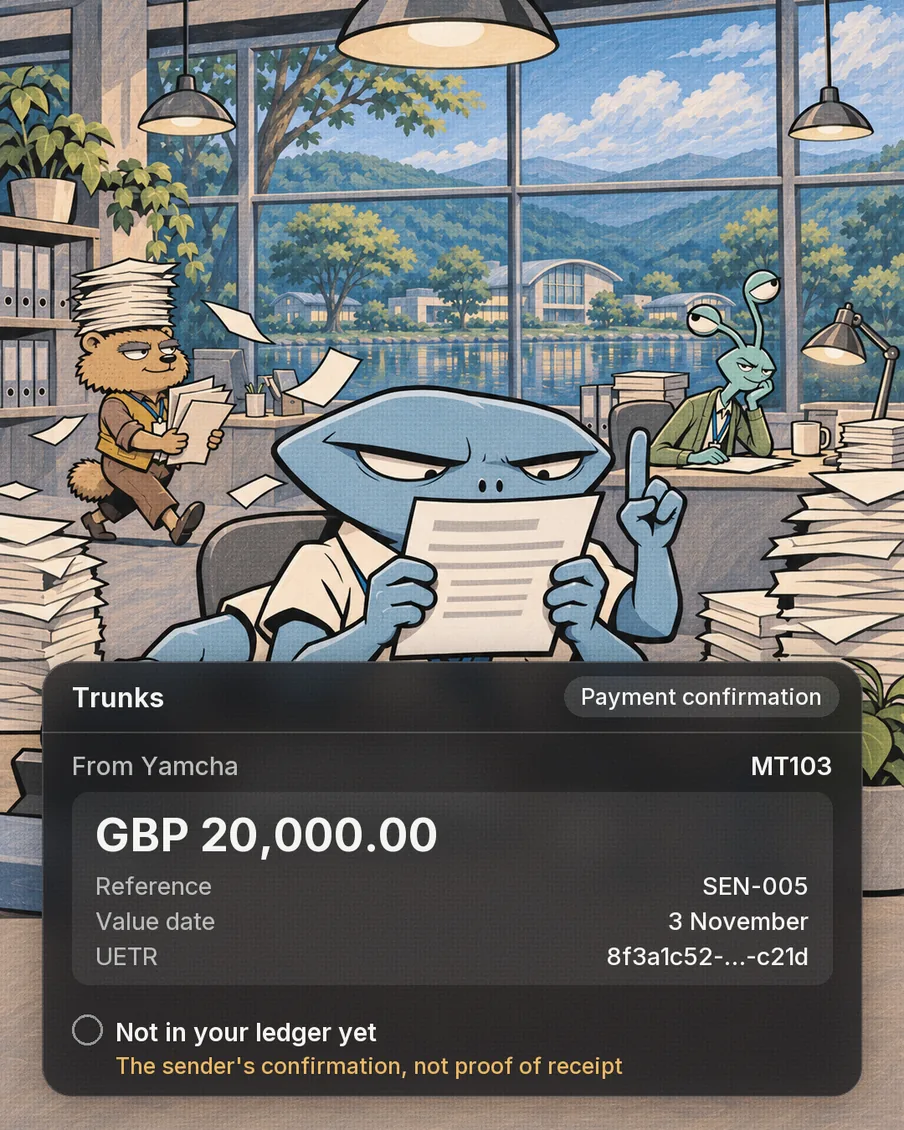
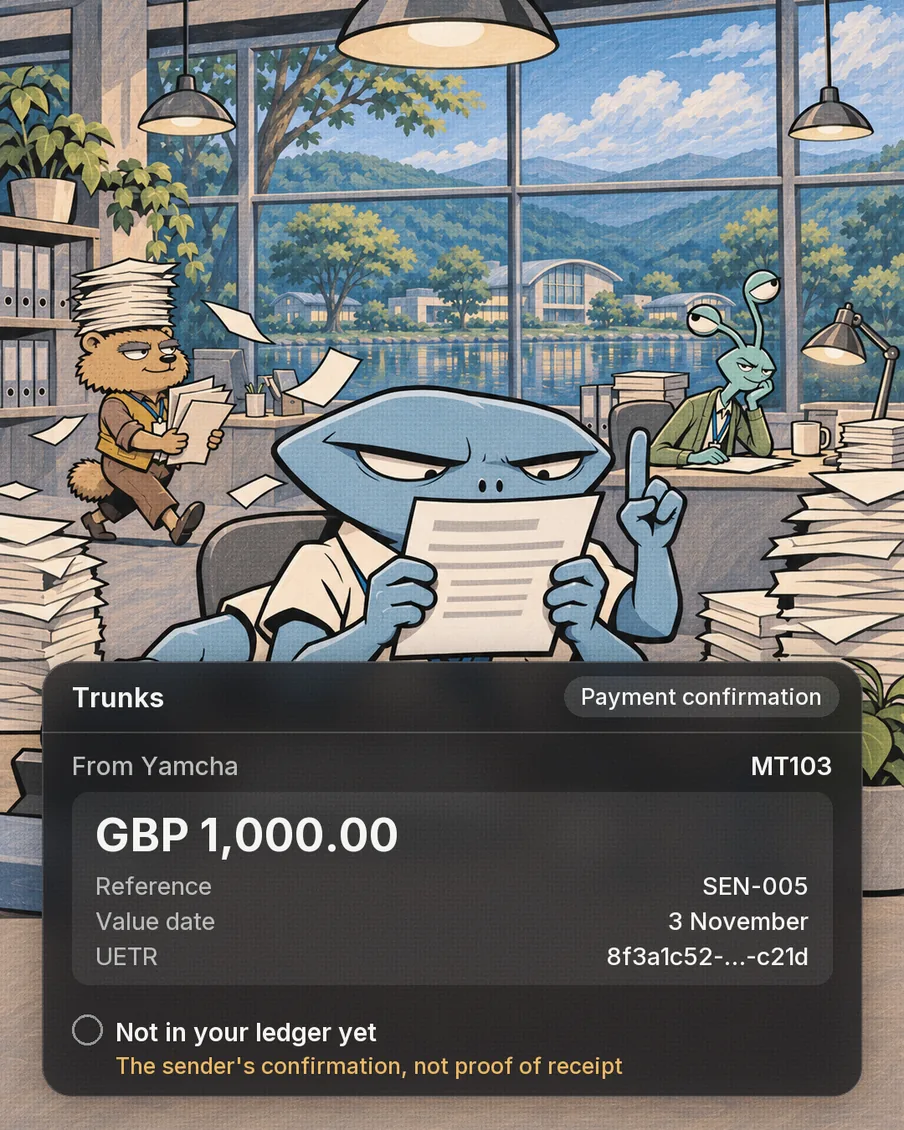
Accuracy pass before Bulma: Trunks import and test-scope wording, Goten pence or cents, products' own status words in panels and figures

Changed region(s): [[0.2168, 0.7124, 0.4956, 0.7743]]

diff --git a/site/goten/index.html b/site/goten/index.html
@@ -95,23 +95,23 @@
             <ul class="ledger">
               <li>
                 <span class="ledger__who">A HART<small>NW-001</small></span
-                ><span class="ledger__amt">£10,000.00</span><span class="pill pill--ok">Matched</span>
+                ><span class="ledger__amt">£10,000.00</span><span class="pill pill--ok">Matched automatically</span>
               </li>
               <li>
                 <span class="ledger__who">B OKAFOR<small>NW002 NORTHWIND</small></span
-                ><span class="ledger__amt">£5,000.00</span><span class="pill pill--ok">Matched</span>
+                ><span class="ledger__amt">£5,000.00</span><span class="pill pill--ok">Matched automatically</span>
               </li>
               <li class="ledger__focus">
                 <span class="ledger__who">CHLOE MARTIN<small>no reference · suggested Chloe Martin, score 0.55 · confirmed by a person</small></span
                 ><span class="ledger__amt">£20,000.00</span
                 ><span class="pill pill--swap"
-                  ><span class="pill__before" aria-hidden="true">Review</span><span class="pill__after" aria-hidden="true">Confirmed</span
-                  ><span class="sr-only">Confirmed</span></span
+                  ><span class="pill__before" aria-hidden="true">Needs review</span><span class="pill__after" aria-hidden="true">Confirmed by you</span
+                  ><span class="sr-only">Confirmed by you</span></span
                 >
               </li>
               <li>
                 <span class="ledger__who">D KIM<small>NW-004</small></span
-                ><span class="ledger__amt">£2,000.00</span><span class="pill pill--ok">Matched</span>
+                ><span class="ledger__amt">£2,000.00</span><span class="pill pill--ok">Matched automatically</span>
               </li>
             </ul>
           </div>
@@ -221,21 +221,23 @@
                           <ul class="illus__rows" aria-hidden="true">
                             <li class="illus__row is-dim">
                               <span class="illus__who">A HART<small>2026-10-06 · NW-001</small></span
-                              ><span class="illus__amt">£10,000.00</span><span class="pill">Matched</span>
+                              ><span class="illus__amt">£10,000.00</span><span class="pill">Matched automatically</span>
                             </li>
                             <li class="illus__row is-focus">
                               <span class="illus__who">CHLOE MARTIN<small>2026-10-07 · no reference</small></span
                               ><span class="illus__amt">£20,000.00</span
-                              ><span class="pill illus__state"><span class="swap__a">Review</span><span class="swap__b">Confirmed</span></span>
+                              ><span class="pill illus__state"><span class="swap__a">Needs review</span><span class="swap__b">Confirmed by you</span></span>
                               <span class="illus__suggest">
                                 <span class="illus__match">Chloe Martin<small>NW-003</small></span>
                                 <span class="illus__why">score 0.55 — payer name matches, amount matches</span>
-                                <span class="illus__btn"><span class="swap__a">Confirm</span><span class="swap__b">&#10003; Confirmed by a person</span></span>
+                                <span class="illus__btn"
+                                  ><span class="swap__a">Confirm Chloe Martin</span><span class="swap__b">&#10003; Confirmed by you</span></span
+                                >
                               </span>
                             </li>
                             <li class="illus__row is-dim">
                               <span class="illus__who">D KIM<small>2026-10-07 · NW-004</small></span
-                              ><span class="illus__amt">£2,000.00</span><span class="pill">Matched</span>
+                              ><span class="illus__amt">£2,000.00</span><span class="pill">Matched automatically</span>
                             </li>
                           </ul>
                         </div>
@@ -367,7 +369,7 @@
           <dl class="facts">
             <div class="fact" data-reveal>
               <dt>Exact</dt>
-              <dd>Whole pence and integer maths, no floating point.</dd>
+              <dd>Whole pence or cents and integer maths, no floating point.</dd>
             </div>
             <div class="fact" data-reveal>
               <dt>1,800</dt>

diff --git a/site/index.html b/site/index.html
@@ -105,23 +105,23 @@
             <ul class="ledger">
               <li>
                 <span class="ledger__who">A HART<small>NW-001</small></span
-                ><span class="ledger__amt">£10,000.00</span><span class="pill pill--ok">Matched</span>
+                ><span class="ledger__amt">£10,000.00</span><span class="pill pill--ok">Matched automatically</span>
               </li>
               <li>
                 <span class="ledger__who">B OKAFOR<small>NW002 NORTHWIND</small></span
-                ><span class="ledger__amt">£5,000.00</span><span class="pill pill--ok">Matched</span>
+                ><span class="ledger__amt">£5,000.00</span><span class="pill pill--ok">Matched automatically</span>
               </li>
               <li class="ledger__focus">
                 <span class="ledger__who">CHLOE MARTIN<small>no reference · suggested Chloe Martin, score 0.55 · confirmed by a person</small></span
                 ><span class="ledger__amt">£20,000.00</span
                 ><span class="pill pill--swap"
-                  ><span class="pill__before" aria-hidden="true">Review</span><span class="pill__after" aria-hidden="true">Confirmed</span
-                  ><span class="sr-only">Confirmed</span></span
+                  ><span class="pill__before" aria-hidden="true">Needs review</span><span class="pill__after" aria-hidden="true">Confirmed by you</span
+                  ><span class="sr-only">Confirmed by you</span></span
                 >
               </li>
               <li>
                 <span class="ledger__who">D KIM<small>NW-004</small></span
-                ><span class="ledger__amt">£2,000.00</span><span class="pill pill--ok">Matched</span>
+                ><span class="ledger__amt">£2,000.00</span><span class="pill pill--ok">Matched automatically</span>
               </li>
             </ul>
           </div>
@@ -367,8 +367,8 @@
             <details class="faq__item" id="dfaq-fit">
               <summary>How do the modules fit together?</summary>
               <p>
-                They are separate tools. Trunks can import the deals, commitments, bank lines and reconciliation ledger you export from Goten as CSV files,
-                read-only, and it suggests actions such as marking an investor withdrawn in Goten. A person makes the change.
+                They are separate tools. Trunks can import your deals, the Goten commitments file, your bank statement and the reconciliation ledger exported
+                from Goten as CSV files, read-only, and it suggests actions such as marking an investor withdrawn in Goten. A person makes the change.
               </p>
             </details>
             <details class="faq__item" id="dfaq-tested">
@@ -376,7 +376,7 @@
               <p>
                 Each module page shows the figures from the release checks that measured them: <a href="/goten/#trust">Goten</a> and
                 <a href="/trunks/#trust">Trunks</a>. Both compare their rules with an independent Python implementation and use mutation checks. Trunks is also
-                measured on emails that development never read, with a real model, once per release.
+                measured on emails that development never read, with a real model, before each release that changes how emails are judged.
               </p>
             </details>
           </div>

diff --git a/site/trunks/index.html b/site/trunks/index.html
@@ -574,7 +574,7 @@
             <dd>
               All text in the database is encrypted; only ids, types, hashes, times, amounts and the last four characters of each deal&rsquo;s receiving
               accounts are kept in the clear. The audit log is hash-chained, the app&rsquo;s own database roles cannot change or delete it, and a daily export
-              of its latest hash, kept off the server, shows if recent records go missing.
+              of its latest hash, which the operator copies off the server, shows if recent records go missing.
             </dd>
           </div>
         </dl>
@@ -590,8 +590,8 @@
             <span class="built__n">01</span>
             <h3>Mailboxes</h3>
             <p>
-              IMAP, .eml import, Gmail and Microsoft 365, all read-only. Microsoft 365 and Gmail push notifications (Pub/Sub) were tested only against simulated
-              services. Gmail polling was tested on one personal Gmail account.
+              IMAP, .eml import, Gmail and Microsoft 365, all read-only. Microsoft 365, and Gmail push notifications (Pub/Sub), were tested only against
+              simulated services. Gmail polling was tested on one personal Gmail account.
             </p>
           </li>
           <li data-reveal>
@@ -602,7 +602,10 @@
           <li data-reveal>
             <span class="built__n">03</span>
             <h3>Your records</h3>
-            <p>Deals, commitments, bank lines and the reconciliation ledger from Goten CSV files, plus a contacts file. Out: CSV lists and signed events.</p>
+            <p>
+              Deals, the Goten commitments file, your bank statement and the reconciliation ledger exported from Goten, as CSV files, plus a contacts file. Out:
+              CSV lists and signed events.
+            </p>
           </li>
           <li data-reveal>
             <span class="built__n">04</span>
@@ -664,7 +667,7 @@
               <summary>Which mailboxes can it read?</summary>
               <p>
                 IMAP (opened read-only), .eml import, Gmail (read-only, one consent per mailbox) and Microsoft 365 (read permission on the mailboxes you name,
-                checked at every start). Microsoft 365 and Gmail push notifications (Pub/Sub) were tested only against simulated services. Gmail polling was
+                checked at every start). Microsoft 365, and Gmail push notifications (Pub/Sub), were tested only against simulated services. Gmail polling was
                 tested on one personal Gmail account.
               </p>
             </details>

diff --git a/site/blog/every-investor-email/index.html b/site/blog/every-investor-email/index.html
@@ -80,7 +80,7 @@
               Much of the work of running an SPV or syndicate still happens by hand, in a shared mailbox. What Trunks prepares for each kind of email, and what
               a person still decides.
             </p>
-            <p class="article__date">Updated 9 November 2026</p>
+            <p class="article__date">Updated 20 November 2026</p>
           </div>
           <figure class="article__media">
             <video
@@ -260,7 +260,7 @@
             height="1130"
             loading="lazy"
             decoding="async"
-            alt="Trunks payment confirmation from Yamcha: GBP 20,000.00, reference SEN-005, with its value date and UETR. Not in your ledger yet: the sender's confirmation, not proof of receipt."
+            alt="Trunks payment confirmation from Yamcha: GBP 1,000.00, reference SEN-005, with its value date and UETR. Not in your ledger yet: the sender's confirmation, not proof of receipt."
           />
         </figure>
         <h2>A new bank account</h2>
@@ -307,8 +307,8 @@
         </ul>
         <h2>What a person still does</h2>
         <p>
-          Someone imports the deals, commitments, bank lines, ledger and contacts as CSV files. Commitments and the ledger exported by Goten import directly;
-          bank lines and contacts are your own files. Someone checks every reply, approves it, sends it and marks it as sent.
+          Someone imports the deals, commitments, bank lines, ledger and contacts as CSV files. The Goten commitments file and the ledger exported by Goten
+          import directly; bank lines and contacts are your own files. Someone checks every reply, approves it, sends it and marks it as sent.
         </p>
         <p>
           Trunks does not replace judgement. It has no connection to your bank and cannot stop a payment. An approver or admin can still close a case with its

diff --git a/site/blog/from-bank-statement-to-exit/index.html b/site/blog/from-bank-statement-to-exit/index.html
@@ -127,9 +127,9 @@
         </figure>
         <h2>What Goten prepares</h2>
         <p>
-          You import the investor list and the bank statement, or type them in. Every result is worked out in exact whole pence and checks itself on the screen:
-          for every investor, cash received must equal the amount invested plus fees plus refunds. If a blocking check fails, copying, exporting and the
-          hand-off to the next step all stop.
+          You import the investor list and the bank statement, or type them in. Every result is worked out in exact whole pence or cents and checks itself on
+          the screen: for every investor, cash received must equal the amount invested plus fees plus refunds. If a blocking check fails, copying, exporting and
+          the hand-off to the next step all stop.
         </p>
         <div class="article__table">
           <table>
